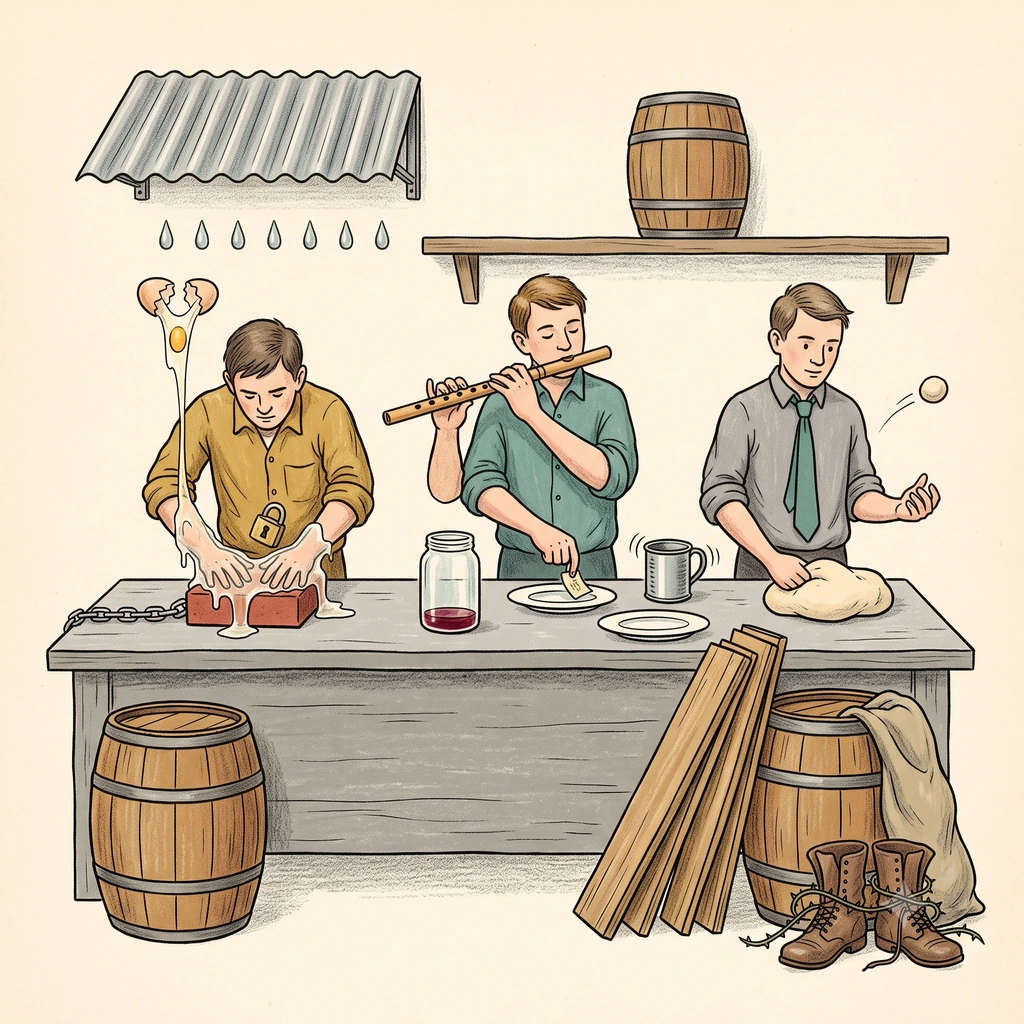
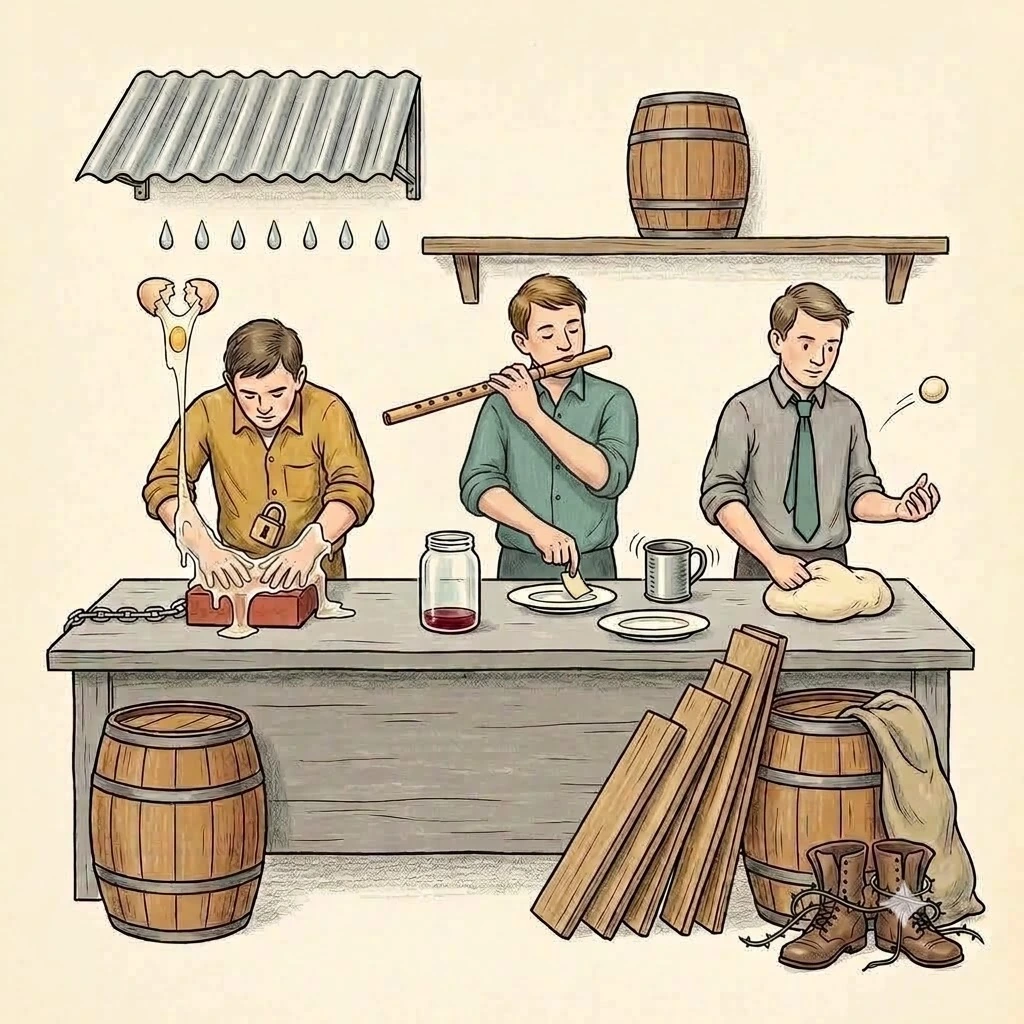
F1 — s12p05 6행: 오른쪽 통에 기댄 널빤지 넷 → 다섯(B5, 밑동 다섯이 또렷) + 3행 피리 부는 사람의 셋째 팔 제거
1라운드(널빤지 다섯) 답에서 제미나이가 「가운데 인물의 여분 손」을 스스로 짚음 — 원본부터 손이 셋(입가 손 · 피리 끝 받친 맨팔 · 꼬리표 옮기는 손)이었다. 2라운드에서 맨팔을 지워 두 팔로(입가 손 하나로 피리 · 다른 팔이 꼬리표). 피리 구멍 여섯 유지 확인.
꼬리표 안의 글자 같은 긁힘은 손 보정으로 지움(tools/retouch/s12p05_tag_plain.py).
프롬프트 tools/prompts/s12p05_널빤지다섯_v1.txt(자물쇠 자리 문구 바로잡음) · s12p05_피리손둘_v2.txt

Claude-Session: https://claude.ai/code/session_01WoYBm6rvmofApXiAiUhif2

diff --git a/tools/retouch/s12p05_tag_plain.py b/tools/retouch/s12p05_tag_plain.py
@@ -1,0 +1,26 @@
+#!/usr/bin/env python3
+"""s12p05 — 피리 부는 사람이 옮기는 꼬리표 안의 글자 같은 긁힘을 지운다(지우기만, 새 획 없음).
+제미나이 2라운드(s12p05_v2)에 「plain, no marks」를 넣었지만 긁힘이 그대로 남아서 손 보정.
+사용: python3 tools/retouch/s12p05_tag_plain.py <src.png> <out.png>"""
+import sys
+import numpy as np
+from PIL import Image, ImageDraw
+src, out = sys.argv[1], sys.argv[2]
+im = Image.open(src).convert('RGB')
+a = np.asarray(im).astype(np.int32).copy()
+# 꼬리표 안쪽(테두리·손끝 제외) 다각형
+poly = [(568, 579), (581, 579), (586, 588), (578, 595), (570, 590)]
+m = Image.new('L', im.size, 0); ImageDraw.Draw(m).polygon(poly, fill=255)
+inside = np.asarray(m) > 0
+lum = a.sum(2) / 3
+light = inside & (lum >= 200)
+col = np.median(a[light], axis=0)
+dark = inside & (lum < 200)
+a[dark] = col
+# 가장자리 이음새를 누그러뜨리려고 다각형 안만 3x3 평균 한 번
+b = a.copy()
+ys, xs = np.nonzero(inside)
+for y, x in zip(ys, xs):
+    b[y, x] = a[y-1:y+2, x-1:x+2].reshape(-1, 3).mean(0)
+Image.fromarray(b.clip(0, 255).astype(np.uint8)).save(out)
+print('tag colour', col, 'erased px', int(dark.sum()))

diff --git a/tools/retouch/README.md b/tools/retouch/README.md
@@ -13,3 +13,4 @@
 | s11p05 | `s11p05_step1_planks.py` — 판자 칸 x(101…855, 간격 ~68.5) 기준 세로 띠 통째 복사: 아래 3→4, 2→5(민), 8→10(TTA) · 가운데 8→6(GGG) / `s11p05_step2_letters.py -7.4 802 790 0.95` — 아래 9번 GGG 글자만 알파로 떼어 7.4° 돌려 기울어진 새 판자 면에(판자 면 다각형 ∩ 나뭇결 색 ∖ 손) | s11p05_v3_1789807065018.png |
 | s42p01 | v5(판째 다시 그림) 위에서: 가운데 마당 작은 사람 넷의 둘째 자루 = 주변 바닥색으로 메움(`s42p01_step1_mid.py`) · 걸어 나가는 빈손 아이 손에 지운 자루 하나 옮김 · 오른쪽 아래층 다섯 = Telea 인페인트(반경 4)(k6 만 왼쪽 자루를 지움 — 빨간 바지 번짐이 덜함) | s42p01_v5_1790603811156.png |
 | s19p01d | `s19p01d_barrel_from_r2.py 0.8` — 1라운드(음반 여섯 C자·맨 딱지·굄목 ✓, 오크통 사라짐) 위에 2라운드(오크통 ✓, 음반 다섯)의 오크통만 떼어 0.8배로 문 옆에 붙임(두 그림 어긋남 ±2px 확인) | s19p01d_v1_1790606587390.png + s19p01d_v2_1790606762770.png |
+| s12p05 | `s12p05_tag_plain.py` — 꼬리표 안쪽 다각형((568,579)…(570,590), 테두리·손끝 제외)의 어두운 화소(90px, 글자 같은 긁힘)만 꼬리표 색(241,224,181)으로 메우고 3×3 평균 한 번. 2라운드에서 「plain, no marks」가 안 먹혀서 | s12p05_v2_1790608034355.png |
